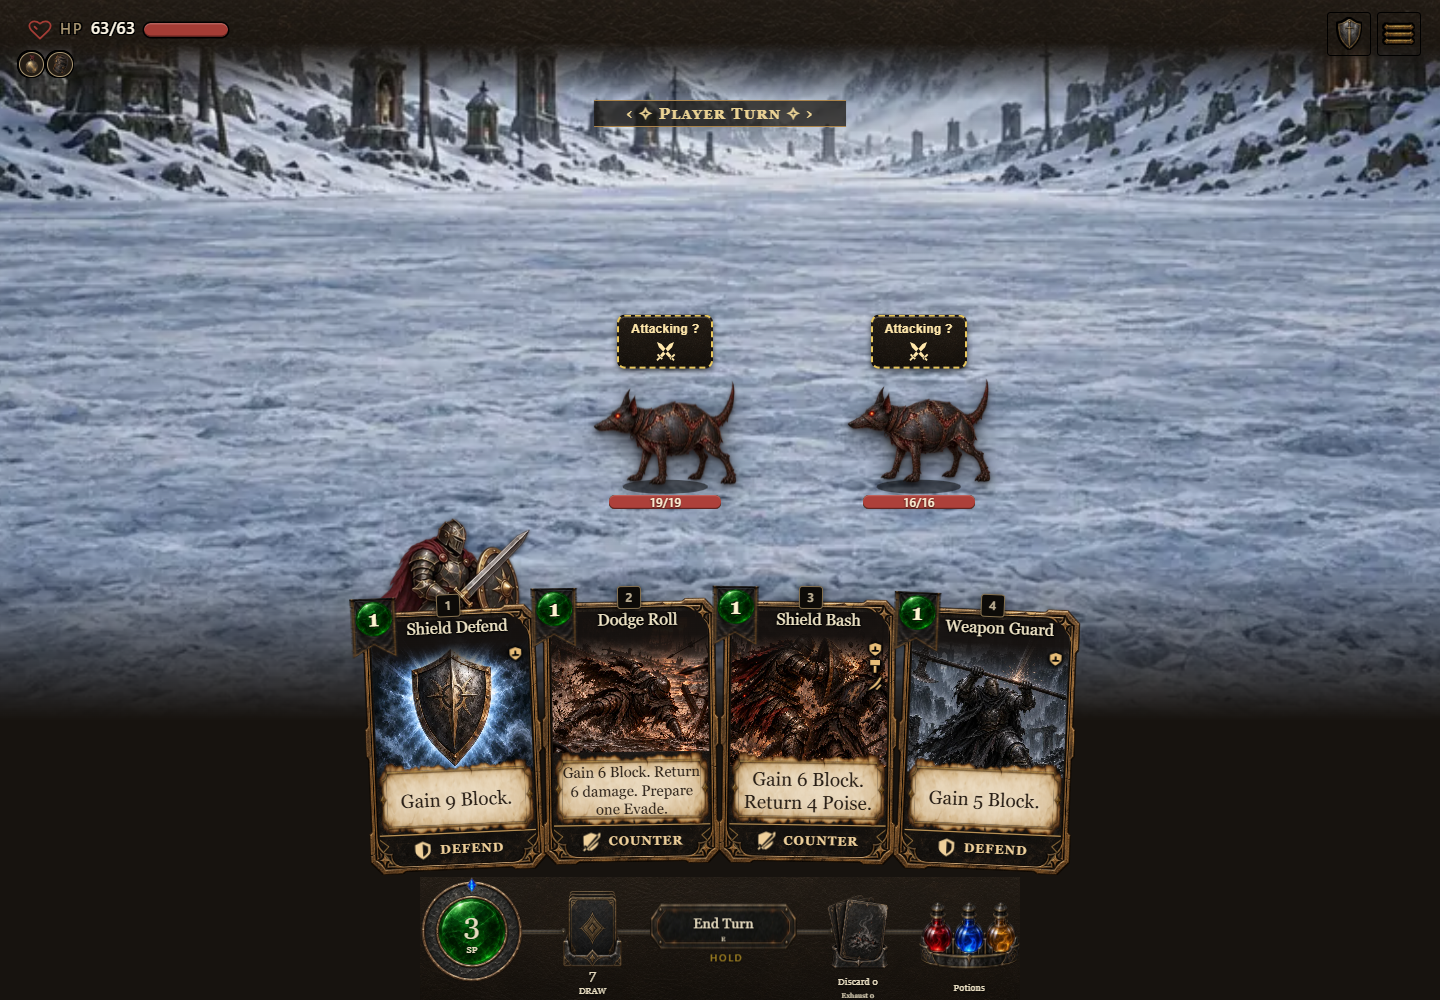
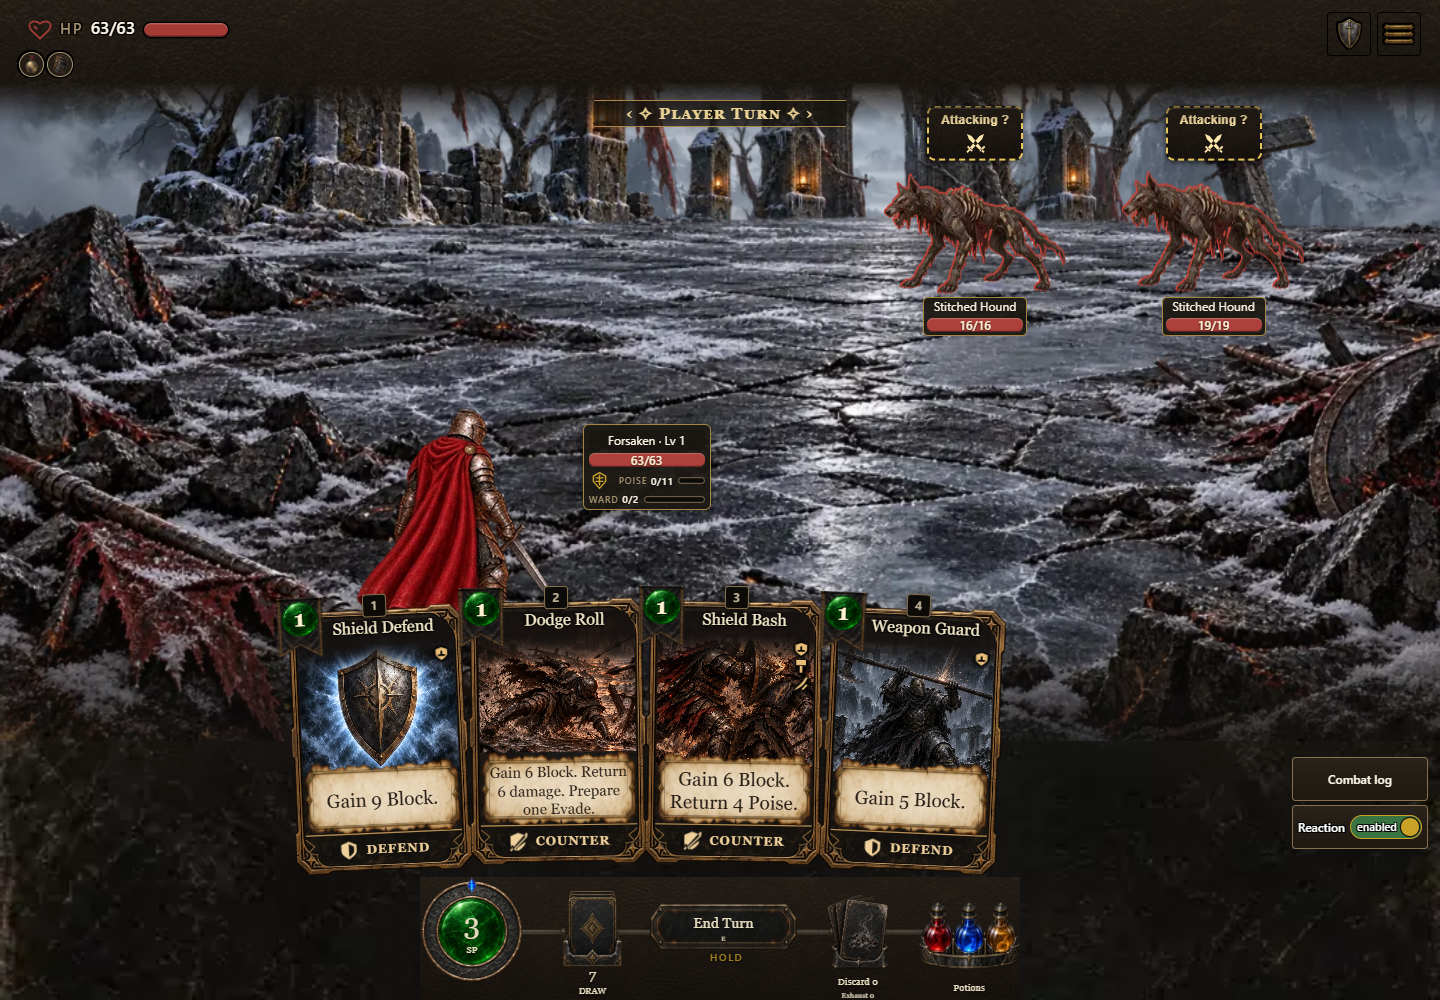
Verify reviewed master cards against current dev in build 1193

diff --git a/src/content/changelog.generated.js b/src/content/changelog.generated.js
@@ -7,8 +7,8 @@ export const GENERATED_CHANGELOG = Object.freeze([
     "date": "2026-10-09",
     "group": "2026-10-09",
     "summary": "Card actions and ranks stay readable over their artwork",
-    "detail": "Cards separate their background, art, backdrops, trim, icons and text into explicit layers. Rank 1 and higher appear as Rank X centered above the effect panel; Rank 0 stays hidden. A dark title fade, solid action symbols and centered names keep the face readable. Smash uses a fist and Counter a shield crossed by a sword. Up to three primary symbols line the right edge; Information keeps every tag. Complete effects and their rank label adapt together.",
-    "build": "0.7.1.1191",
+    "detail": "Cards separate their background, art, backdrops, trim, icons and text into explicit layers. Rank 1 and higher appear as Rank X centered above the effect panel; Rank 0 stays hidden. A dark title fade, solid action symbols and centered names keep the face readable. Smash uses a fist and Counter a shield crossed by a sword. Up to three primary symbols line the right edge; Information keeps every tag. Complete effects and their blue rank bar adapt together. The shared master JSON controls component images, symbols, typography, layer order and geometry. The card layer explorer saves grouped move/scale edits directly to that game template and previews actual combat cards.",
+    "build": "0.7.1.1193",
     "pullRequest": 1766,
     "url": "https://github.com/cehinds/AshenSpire/pull/1766"
   },

diff --git a/docs/qa/card-rank-layers/STATUS.md b/docs/qa/card-rank-layers/STATUS.md
@@ -1,5 +1,16 @@
 # Card layers and rank continuation
 
+## October 9 — owner approved merging the master editor
+
+The owner approved the current master-component/game preview and requested
+merge. This supersedes the earlier visual rejection and merge hold below.
+The complete source, editor and curated native screenshots are committed;
+newer changes on the remote PR branch have been merged without conflicts.
+Independent reviewer `review_card_master` approved the authored PR diff at
+`cddfeb2076`, with no blocking findings and 20 focused tests passing. The owner
+explicitly authorized that reviewer. Current-head build and CI gates still apply.
+See `../card-layers/master/README.md` for the saved visual evidence.
+
 ## October 9 — master component appearance and real combat preview
 
 The master now exposes `components` (image paths, fit, styles, typography and
@@ -171,20 +182,15 @@ CI on `5231fe396e1ca92cd51ae144cfa4e294b085410c` passed preview, core, receipts 
 ## Remaining gates
 
 1. Confirm the final origin head, current build receipt and current-head CI.
-2. Obtain independent review. The prior automatic Codex reviewer reported its
-   usage limit. No independent review of the new layer/rank diff exists yet.
-   The session's developer instruction permits spawning agents only after an
-   explicit user request or an applicable AGENTS/skill instruction. An async
-   question asking the user to authorize a review agent or waive independent
-   review is pending; no answer has arrived. Do not claim that self-review is
-   independent review or silently bypass this requirement.
+2. Independent review is complete: `review_card_master` approved the authored
+   implementation at `cddfeb2076` with no blocking findings. The automatic PR
+   review bot remains quota-limited; the owner authorized the local reviewer.
 3. Fix verified findings, keep current with dev, regenerate metadata after
    source merges, then merge #1766 with a merge commit after all required gates.
 4. Coordinate the batched test promotion with the integration chat when human
    authorization permits messaging it. Check architecture sync, test heavy CI
    and alternative synchronization separately. No release/main/tag action.
-5. Owner visual acceptance of the new native rank placement remains distinct
-   from automated geometry checks and source integration.
+5. The owner approved the current native master-component preview and merge.
 
 The original eight-layer editable wireframe is saved at
 `docs/qa/card-layers/index.html`; the native nine-layer examples are

diff --git a/CHANGELOG.md b/CHANGELOG.md
@@ -34,7 +34,7 @@ A receipt here names the pull request that landed a change; inventing one to fit
 
 ## 2026-10-09
 
-- **Card actions and ranks stay readable over their artwork** ([#1766](https://github.com/cehinds/AshenSpire/pull/1766), `0.7.1.1191`). Cards separate their background, art, backdrops, trim, icons and text into explicit layers. Rank 1 and higher appear as Rank X centered above the effect panel; Rank 0 stays hidden. A dark title fade, solid action symbols and centered names keep the face readable. Smash uses a fist and Counter a shield crossed by a sword. Up to three primary symbols line the right edge; Information keeps every tag. Complete effects and their rank label adapt together.
+- **Card actions and ranks stay readable over their artwork** ([#1766](https://github.com/cehinds/AshenSpire/pull/1766), `0.7.1.1193`). Cards separate their background, art, backdrops, trim, icons and text into explicit layers. Rank 1 and higher appear as Rank X centered above the effect panel; Rank 0 stays hidden. A dark title fade, solid action symbols and centered names keep the face readable. Smash uses a fist and Counter a shield crossed by a sword. Up to three primary symbols line the right edge; Information keeps every tag. Complete effects and their blue rank bar adapt together. The shared master JSON controls component images, symbols, typography, layer order and geometry. The card layer explorer saves grouped move/scale edits directly to that game template and previews actual combat cards.
 
 - **Compact combat details stay clear of cards** ([#1775](https://github.com/cehinds/AshenSpire/pull/1775), `0.7.1.1189`). Pack enemy name and health plates around the visible hand and player details on short screens with enlarged text. Keep the sprites fixed while moving only crowded plates. Verify attacks through the visible target buttons and saved turns through the normal defensive-reaction controls.
 

diff --git a/docs/qa/card-layers/master/README.md b/docs/qa/card-layers/master/README.md
@@ -1,0 +1,22 @@
+# Native card master evidence
+
+Captured October 9, 2026 from local source. These are real renderer captures,
+not drawn mockups. The editor capture precedes dev reconciliation (`fa955e2130`,
+working changes on `62d46efa5f`). Combat and inspection were recaptured after
+reconciliation at `cddfeb2076`, using the pinned `hd-assets-v15` cache and the
+tracked display-art overrides. These are source screenshot states, not evidence
+of a completed playthrough.
+
+- `editor.png`: shared component appearance editor, 1500 × 1100.
+- `game-desktop.png`: posed combat screenshot state, 1440 × 1000.
+- `game-inspection.png`: native card inspection at the same desktop size.
+- `game-phone.png`: posed combat screenshot state, 390 × 844.
+
+The isolated `tools/card-master-qa.mjs` run changed an action PNG through the
+editor, saved it, changed the title color and footer PNG in the master file,
+and verified all changes in the actual game after refresh. Captures restore
+the approved appearance. `tools/card-layout-save-qa.mjs` independently verifies
+grouped rank/panel transforms, save/reload, export equality and stale-write
+rejection. The full card corpus passed 2,198 faces on each viewport.
+
+These captures prove the local source presentation, not release publication.
